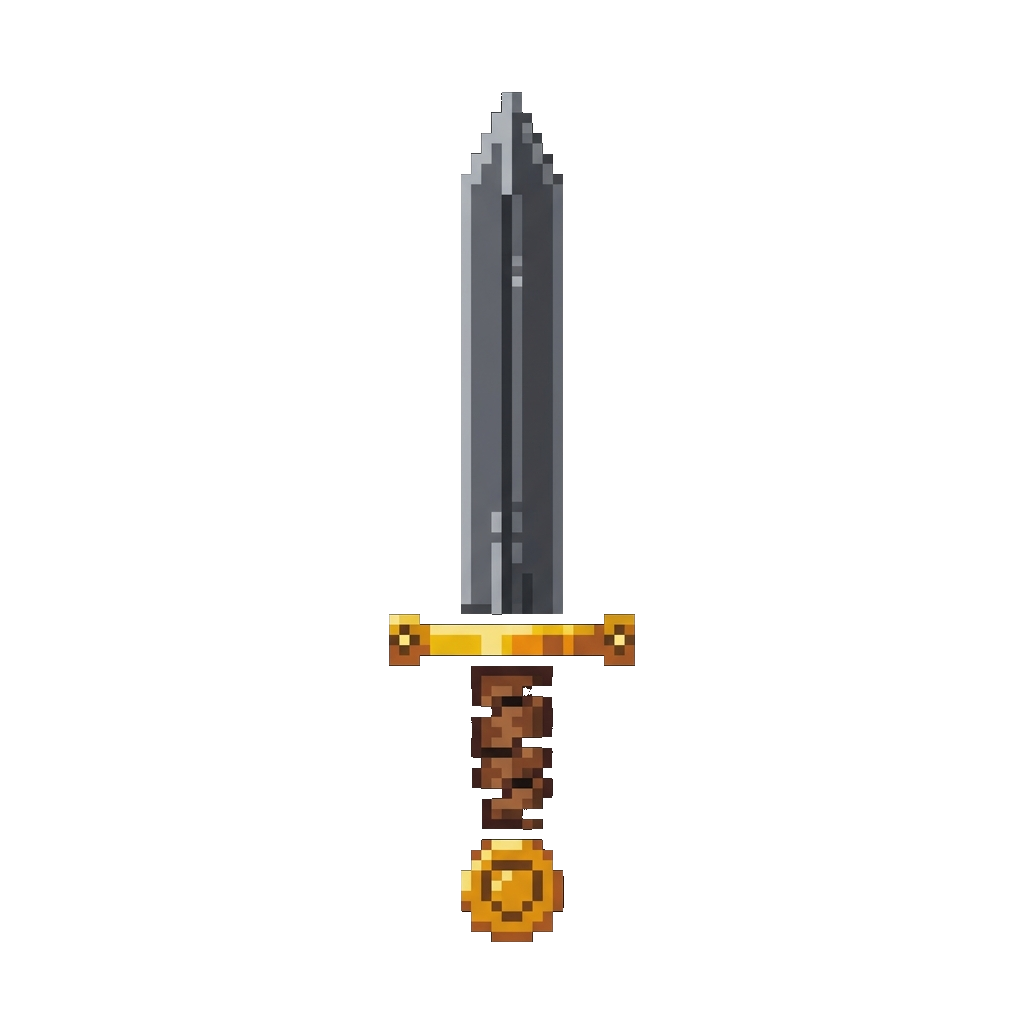
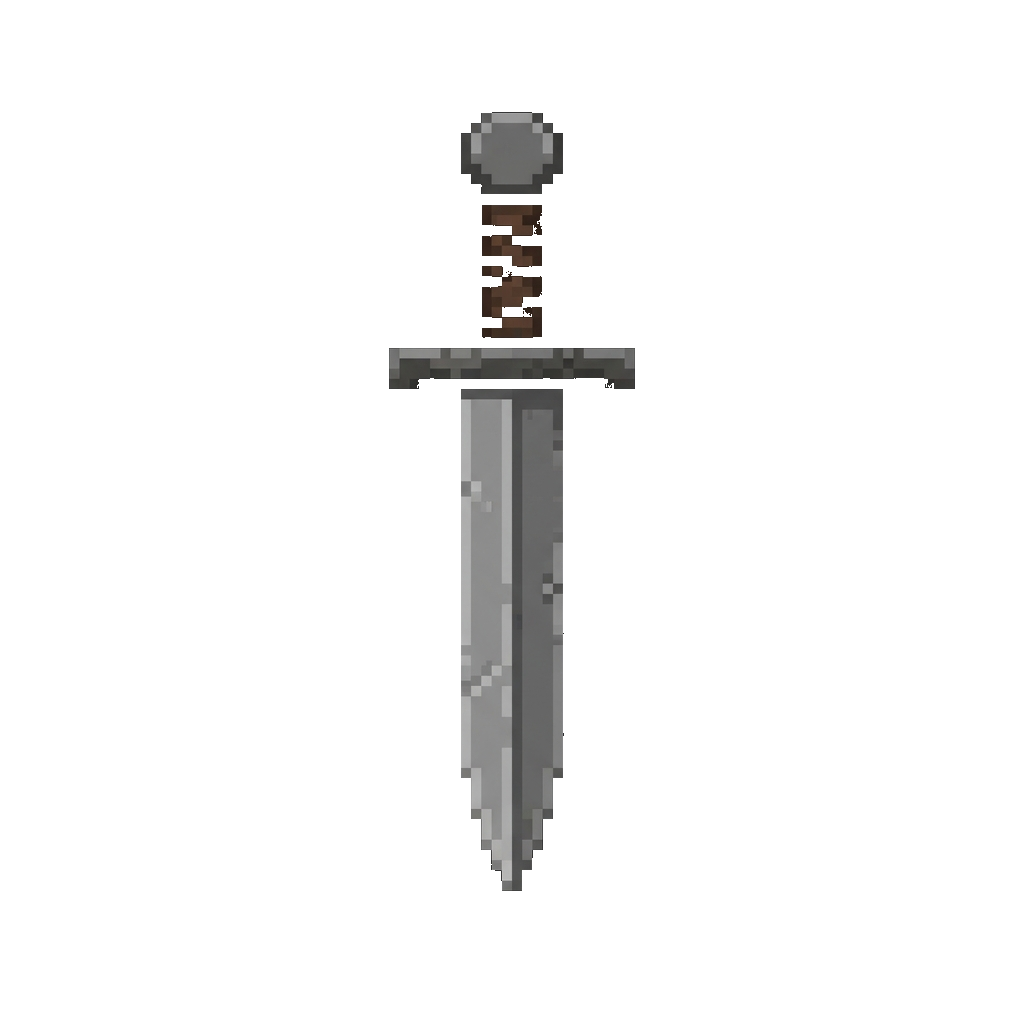
feat(v0.2.7.1021.3): 기본 검(sword_basic.png) 도트 그래픽을 투박하고 소박한 무쇠 검으로 재디자인 교체

Changed region(s): [[0.375, 0.0938, 0.625, 0.9375]]

diff --git a/js/ui.js b/js/ui.js
@@ -27,7 +27,7 @@ document.head.appendChild(introStyle);
 const titleScreen = document.createElement("div");
 titleScreen.className = "intro-screen";
 titleScreen.innerHTML = `
-            <div style="position: absolute; top: 20px; right: 24px; font-size: 14px; color: #aaa; font-family: 'Consolas', 'Courier New', monospace; letter-spacing: 1px; background: rgba(255, 255, 255, 0.08); padding: 5px 12px; border-radius: 6px; border: 1px solid rgba(255, 255, 255, 0.15); pointer-events: none; z-index: 5001;">v0.2.7.1021.2</div>
+            <div style="position: absolute; top: 20px; right: 24px; font-size: 14px; color: #aaa; font-family: 'Consolas', 'Courier New', monospace; letter-spacing: 1px; background: rgba(255, 255, 255, 0.08); padding: 5px 12px; border-radius: 6px; border: 1px solid rgba(255, 255, 255, 0.15); pointer-events: none; z-index: 5001;">v0.2.7.1021.3</div>
             <div style="font-size: 48px; font-weight: bold; letter-spacing: 5px; cursor: pointer; text-shadow: 0 0 20px rgba(255,255,255,0.5);">Under To Under</div>
             <div style="margin-top: 30px; font-size: 14px; color: #888; animation: pulse-noti 1.5s infinite;">화면을 클릭하여 시작하세요</div>
         `;
@@ -58,7 +58,7 @@ const lobbyScreen = document.createElement("div");
 lobbyScreen.className = "intro-screen hidden-screen";
 lobbyScreen.style.backgroundColor = "#111"; // 추후 배경 이미지 삽입 가능
 lobbyScreen.innerHTML = `
-            <div style="position: absolute; top: 20px; right: 24px; font-size: 14px; color: #aaa; font-family: 'Consolas', 'Courier New', monospace; letter-spacing: 1px; background: rgba(255, 255, 255, 0.08); padding: 5px 12px; border-radius: 6px; border: 1px solid rgba(255, 255, 255, 0.15); pointer-events: none; z-index: 5001;">v0.2.7.1021.2</div>
+            <div style="position: absolute; top: 20px; right: 24px; font-size: 14px; color: #aaa; font-family: 'Consolas', 'Courier New', monospace; letter-spacing: 1px; background: rgba(255, 255, 255, 0.08); padding: 5px 12px; border-radius: 6px; border: 1px solid rgba(255, 255, 255, 0.15); pointer-events: none; z-index: 5001;">v0.2.7.1021.3</div>
             <div style="background: rgba(20,20,25,0.95); border: 2px solid #444; border-radius: 10px; padding: 30px; width: 420px; box-shadow: 0 10px 40px rgba(0,0,0,0.8); display: flex; flex-direction: column; gap: 20px; text-align: center;">
                 <div id="lobbyWelcomeMsg" style="color: white; font-size: 18px; font-weight: bold; border-bottom: 1px solid #333; padding-bottom: 15px;">환영합니다, 플레이어님</div>
                 

diff --git a/index.html b/index.html
@@ -4,9 +4,9 @@
 <head>
     <meta charset="UTF-8">
     <meta name="viewport" content="width=device-width, initial-scale=1.0, maximum-scale=1.0, user-scalable=no">
-    <title>UTU v0.2.7.1021.2</title>
+    <title>UTU v0.2.7.1021.3</title>
 
-    <link rel="stylesheet" href="css/style.css?v=0.2.7.1021.2">
+    <link rel="stylesheet" href="css/style.css?v=0.2.7.1021.3">
 </head>
 
 <body>
@@ -305,22 +305,22 @@
 
     <!-- [UTU v0.2.7 기능별 스크립트 모듈 로더 (캐시 방지 쿼리 파라미터 적용)] -->
     <!-- 1. 정적 데이터 모듈 -->
-    <script src="data/maps.js?v=0.2.7.1021.2"></script>
-    <script src="data/jobs.js?v=0.2.7.1021.2"></script>
-    <script src="data/items.js?v=0.2.7.1021.2"></script>
+    <script src="data/maps.js?v=0.2.7.1021.3"></script>
+    <script src="data/jobs.js?v=0.2.7.1021.3"></script>
+    <script src="data/items.js?v=0.2.7.1021.3"></script>
 
     <!-- 2. 코어 및 게임 시스템 모듈 -->
-    <script src="js/core.js?v=0.2.7.1021.2"></script>
-    <script src="js/world.js?v=0.2.7.1021.2"></script>
-    <script src="js/combat.js?v=0.2.7.1021.2"></script>
-    <script src="js/entities.js?v=0.2.7.1021.2"></script>
-    <script src="js/progression.js?v=0.2.7.1021.2"></script>
-    <script src="js/inventory.js?v=0.2.7.1021.2"></script>
-    <script src="js/ui.js?v=0.2.7.1021.2"></script>
-    <script src="js/input.js?v=0.2.7.1021.2"></script>
+    <script src="js/core.js?v=0.2.7.1021.3"></script>
+    <script src="js/world.js?v=0.2.7.1021.3"></script>
+    <script src="js/combat.js?v=0.2.7.1021.3"></script>
+    <script src="js/entities.js?v=0.2.7.1021.3"></script>
+    <script src="js/progression.js?v=0.2.7.1021.3"></script>
+    <script src="js/inventory.js?v=0.2.7.1021.3"></script>
+    <script src="js/ui.js?v=0.2.7.1021.3"></script>
+    <script src="js/input.js?v=0.2.7.1021.3"></script>
 
     <!-- 3. 메인 게임 루프 및 킥오프 모듈 -->
-    <script src="js/main.js?v=0.2.7.1021.2"></script>
+    <script src="js/main.js?v=0.2.7.1021.3"></script>
 
 </body>
 
